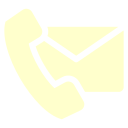
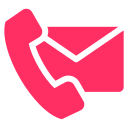
feat: add social
add linkedin and github profile buttons with basic animations and make everything responsive.

diff --git a/src/pages/Home/components/HomeContent/HomeContent.jsx b/src/pages/Home/components/HomeContent/HomeContent.jsx
@@ -1,29 +1,40 @@
 import { motion } from 'framer-motion';
+import { Social } from 'pages';
 
 export const HomeContent = () => {
+  const transition = {
+    type: 'spring',
+    duration: 0.75,
+    stiffness: 90,
+  };
+
   return (
     <div className='w-full h-full flex flex-col justify-center items-center gap-5'>
       <motion.img
         initial={{ opacity: 0, y: '-10rem' }}
         animate={{ opacity: 1, y: 0 }}
+        transition={transition}
         src='images/gamer.png'
         alt='avatar'
       />
       <motion.h1
         initial={{ opacity: 0, x: '-10rem' }}
         animate={{ opacity: 1, x: 0 }}
-        className='text-light-color md:text-3xl lg:text-4xl text-center'
+        transition={transition}
+        className='text-light-color text-xl md:text-3xl lg:text-4xl text-center'
       >
         Hi, I am Gigi Lapachishvili
       </motion.h1>
       <motion.p
         initial={{ opacity: 0, x: '10rem' }}
         animate={{ opacity: 1, x: 0 }}
+        transition={transition}
         className='text-light-color md:text-lg lg:text-xl xl:px-[25%] text-center'
       >
         I am a Full Stack Web Developer, trying to keep up with the rapid growth
         of the modern technology...
       </motion.p>
+      <Social />
     </div>
   );
 };

diff --git a/src/pages/Home/components/Social/Social.jsx b/src/pages/Home/components/Social/Social.jsx
@@ -1,0 +1,37 @@
+import { motion } from 'framer-motion';
+
+export const Social = () => {
+  return (
+    <motion.div
+      initial={{ opacity: 0 }}
+      animate={{ opacity: 1 }}
+      transition={{ duration: 1 }}
+      className='flex gap-5'
+    >
+      <a
+        href='https://www.linkedin.com/in/glapachishvili/'
+        target='_blank'
+        rel='noreferrer'
+      >
+        <motion.img
+          whileHover={{ scale: 1.1 }}
+          whileTap={{ scale: 0.9 }}
+          className='w-8 h-8'
+          src='images/linkedin.png'
+          alt='linkedin'
+        />
+      </a>
+      <a href='https://github.com/Lythmass' target='_blank' rel='noreferrer'>
+        <motion.img
+          whileHover={{ scale: 1.1 }}
+          whileTap={{ scale: 0.9 }}
+          className='w-8 h-8'
+          src='images/github.png'
+          alt='github'
+        />
+      </a>
+    </motion.div>
+  );
+};
+
+export default Social;

diff --git a/src/App.jsx b/src/App.jsx
@@ -1,17 +1,11 @@
 import { NavBar } from 'components';
 import { ParticlesConfig } from 'config';
 import { Home } from 'pages';
-import { useState } from 'react';
 import Particles from 'react-particles';
-import { loadFull } from 'tsparticles';
-import { useCallback } from 'react';
+import { useApp } from 'hooks';
 
 function App() {
-  const [openNavBar, setOpenNavBar] = useState(false);
-
-  const particlesInit = useCallback(async (engine) => {
-    await loadFull(engine);
-  }, []);
+  const { openNavBar, setOpenNavBar, particlesInit } = useApp();
 
   return (
     <div className='flex bg-dark-color h-screen w-full overflow-x-hidden relative'>

diff --git a/src/hooks/useApp.js b/src/hooks/useApp.js
@@ -1,0 +1,15 @@
+import { useState } from 'react';
+import { loadFull } from 'tsparticles';
+import { useCallback } from 'react';
+
+export const useApp = () => {
+  const [openNavBar, setOpenNavBar] = useState(false);
+
+  const particlesInit = useCallback(async (engine) => {
+    await loadFull(engine);
+  }, []);
+
+  return { openNavBar, setOpenNavBar, particlesInit };
+};
+
+export default useApp;

diff --git a/src/components/NavBarItem/NavBarItem.jsx b/src/components/NavBarItem/NavBarItem.jsx
@@ -3,7 +3,7 @@ export const NavBarItem = (props) => {
     <div className='flex gap-2 items-center'>
       <img
         className='w-5 h-5'
-        src={`images/${props.img}-red.png`}
+        src={`images/${props.img}.png`}
         alt={props.title}
       />
       <h1

diff --git a/src/pages/Home/Home.jsx b/src/pages/Home/Home.jsx
@@ -6,7 +6,7 @@ const Home = (props) => {
   const scope = useHome(props);
 
   return (
-    <div className='h-full pb-16'>
+    <div className='h-full pb-20'>
       <motion.img
         ref={scope}
         onClick={() => props.setOpenNavBar(true)}

diff --git a/src/pages/Home/index.js b/src/pages/Home/index.js
@@ -1,3 +1,3 @@
 export { default as Home } from './Home';
 export { default as useHome } from './useHome';
-export { HomeContent } from './components';
+export { HomeContent, Social } from './components';

diff --git a/src/hooks/index.js b/src/hooks/index.js
@@ -1,1 +1,2 @@
 export { default as useWindowSize } from './useWindowSize';
+export { default as useApp } from './useApp';

diff --git a/src/pages/index.js b/src/pages/index.js
@@ -1,1 +1,1 @@
-export { Home, HomeContent } from './Home';
+export { Home, HomeContent, Social } from './Home';

diff --git a/src/pages/Home/components/index.js b/src/pages/Home/components/index.js
@@ -1,1 +1,2 @@
 export { HomeContent } from './HomeContent';
+export { Social } from './Social';

diff --git a/src/pages/Home/components/Social/index.js b/src/pages/Home/components/Social/index.js
@@ -1,0 +1,1 @@
+export { default as Social } from './Social';
